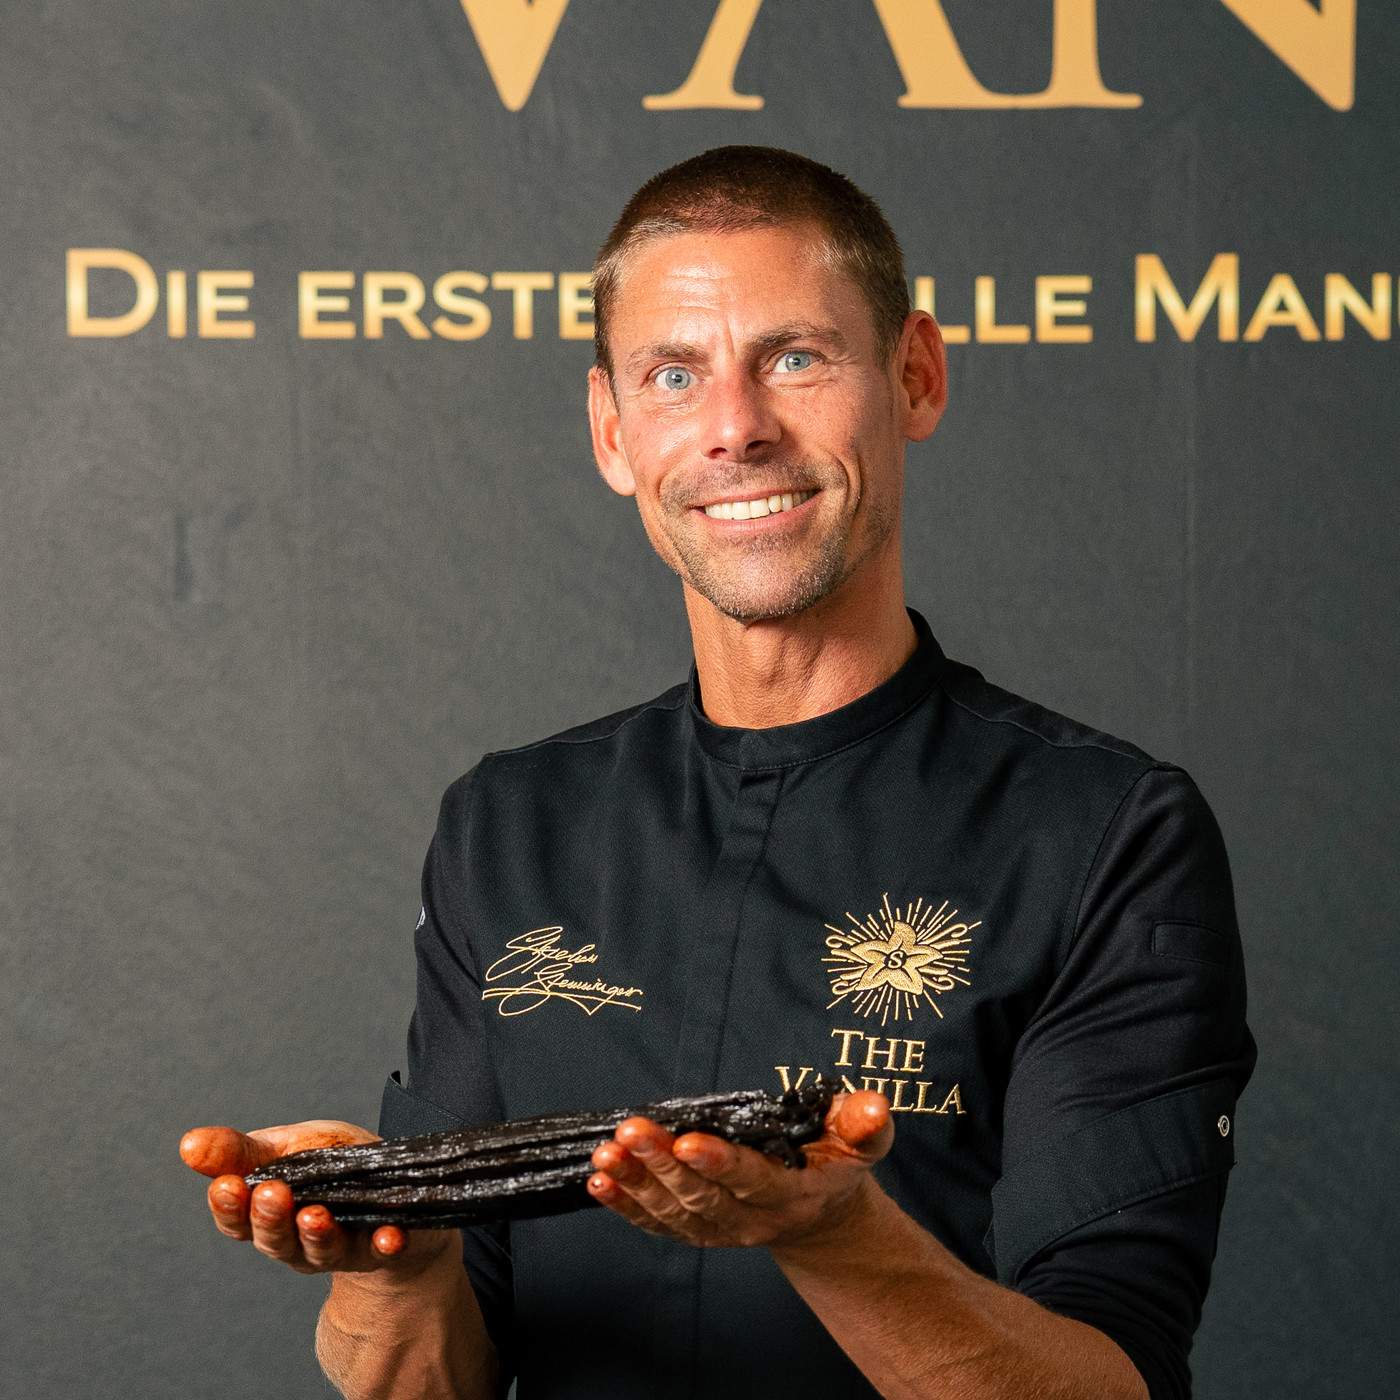
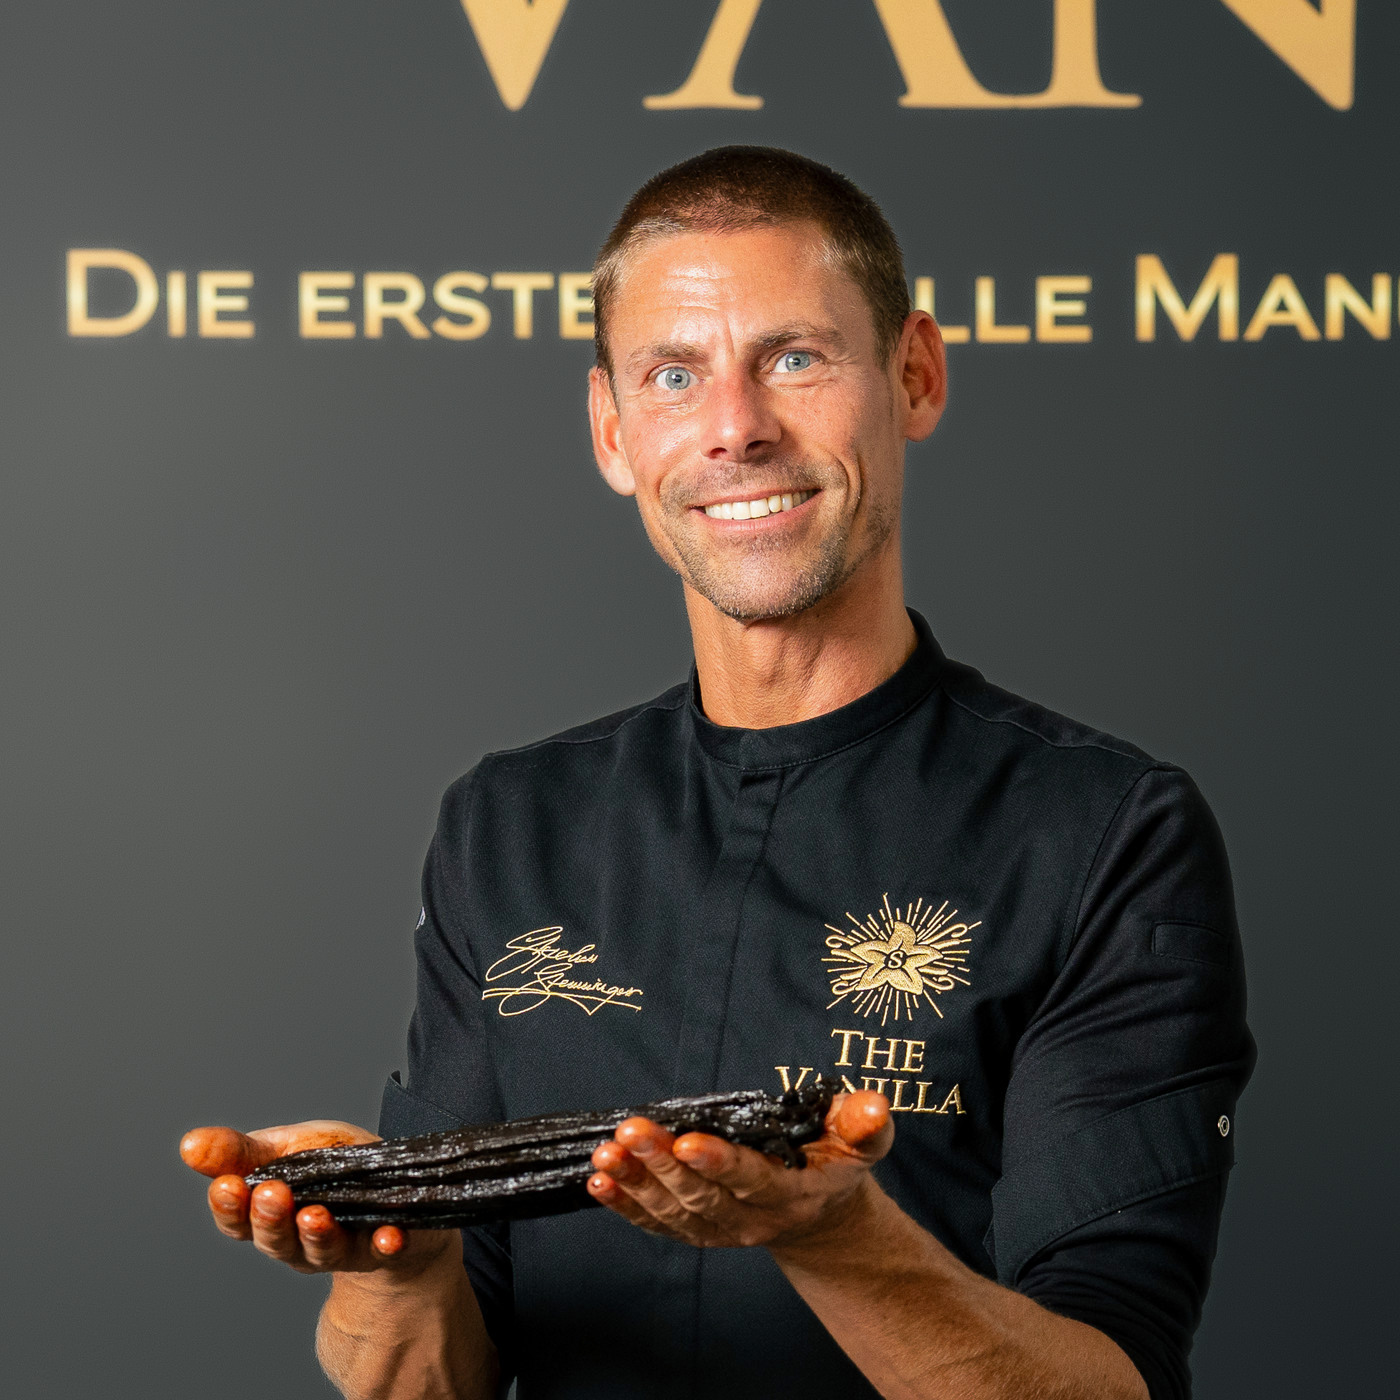
Echte Stephan-Fotos: Farbprofil wie Newsletter-Bild, Wand geglaettet, Licht im Gesicht; Ueber-uns-Foto aus Original neu

diff --git a/ueber-uns.html b/ueber-uns.html
@@ -783,7 +783,7 @@ footer ul a{color:rgba(255,255,255,.72);font-size:.92rem;transition:color .2s}fo
         <p>Über einen guten Freund kam er vor einigen Jahren intensiver mit Vanille in Kontakt. Die Faszination liess ihn nicht mehr los: 2021 gründete er in Schlieren die erste Vanillemanufaktur der Schweiz. Bis heute macht er fast alles selbst, vom Kontakt mit den Händlern über das Abfüllen bis zum Etikettieren.</p>
         <p class="ab-quote">«Ich sah, wie viel Potenzial in Vanille steckt, und gründete 2021 die erste Vanillemanufaktur der Schweiz.»<small>Stephan Stemminger im Gastro Journal, Dezember 2022</small></p>
       </div>
-      <div class="ab-photo reveal"><img src="img/newsletter-stephan-v8.jpg" alt="Stephan Stemminger prüft Vanilleschoten in der Manufaktur"></div>
+      <div class="ab-photo reveal"><img src="img/stephan-tisch-echt.jpg" style="object-position:50% 35%" alt="Stephan Stemminger prüft Vanilleschoten in der Manufaktur"></div>
     </div>
   </div>
 </section>
